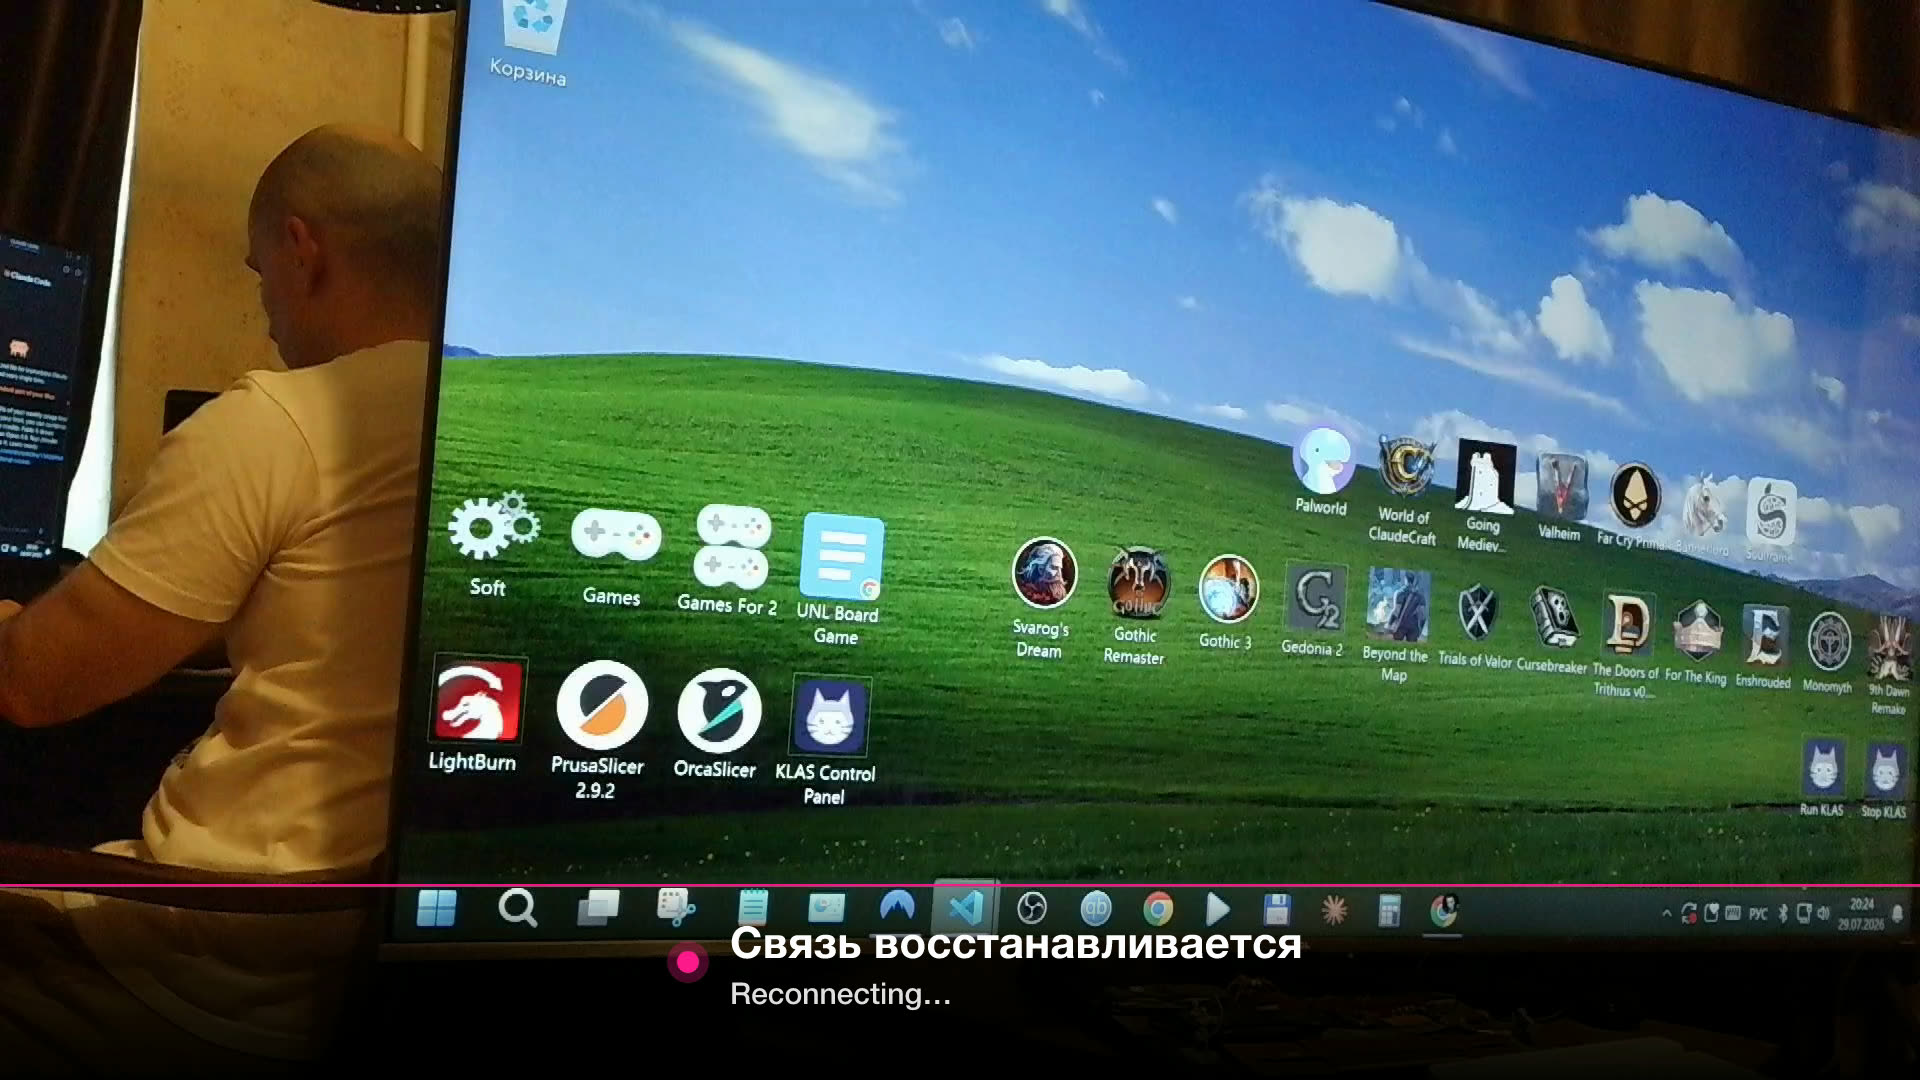
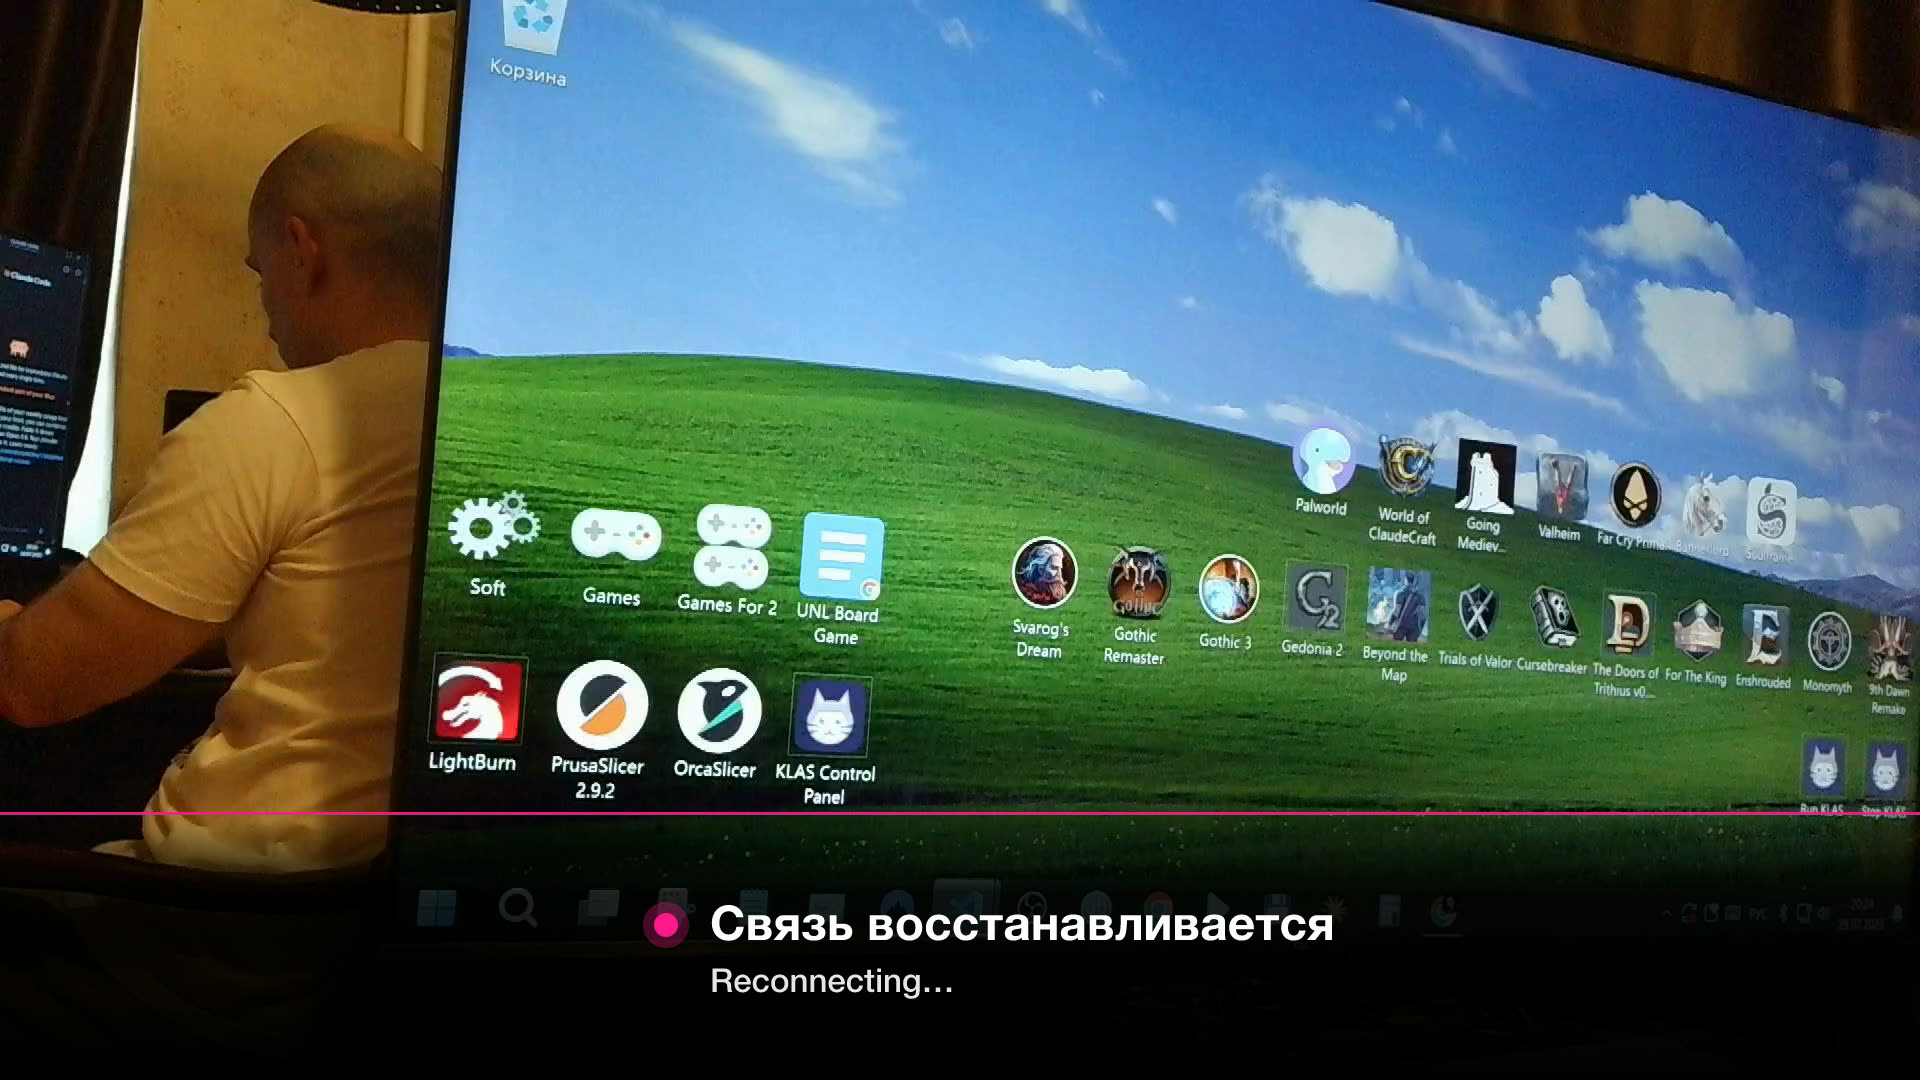
feat(slate): вариант C доработан по правкам Криника — лента 268px, градиент 0.86/0.985; эталон зафиксирован в plans/21 C2 [0.8 (27)]

Changed region(s): [[0.0, 0.7333, 1.0, 0.9472]]

diff --git a/plans/21_stream_resilience_levels_2_4.md b/plans/21_stream_resilience_levels_2_4.md
@@ -145,7 +145,15 @@
   - CMD `simulate-slate` (`MainActivity.kt` — ветка рядом с `:288`, KDoc-список `:197-199`; `StreamingRepository.kt:51`; `tools/ui.mjs:634`; `tools/smoke.mjs` CONTRACT `:97+`). **`slateOverride` — ВХОД политики (`want = override || policy`), а не второй писатель:** политика крутится каждую секунду в тикере и затрёт override за ≤1 с, а на override держится ВСЯ приёмка.
   - Приёмка: слейт вкл на живом сокете → два кадра, вытянутые **С СЕРВЕРА** с интервалом 5 с, совпадают по md5; после `off` — расходятся.
 - [ ] **C2. ПЛАШКА (~35 строк, отдельный коммит).**
-  - `NetworkSlateImage.plaque()`: прозрачный 1920×1080, небольшая плашка внизу-по-центру, калька со `StandbyImage.kt` (кэш, Canvas+Paint, обводка поверх заливки). Текст статичен.
+  - **ЭТАЛОН УТВЕРЖДЁН ВЛАДЕЛЬЦЕМ** (2026-07-29, `interviews/interview_014`): вариант **C — «нижняя
+    лента»**, исходник `assets/graphics/mockups/network_slate/slate_C.svg`. Геометрия оттуда, числами:
+    лента во всю ширину, `y=812, height=268` (25% кадра), вертикальный градиент чёрного
+    `0% → alpha 0`, `30% → 0.86`, `100% → 0.985`; брендовая линия `#FF1A8C` толщиной 3 px по верхней
+    кромке (alpha 0.92); индикатор — точка `#FF1A8C` r=12 с ореолом r=23 (alpha 0.28); текст
+    «Связь восстанавливается» 48 px bold белый, «Reconnecting…» 33 px medium белый alpha 0.90;
+    блок «точка + текст» центрирован по ширине кадра. **Не «похожая» плашка, а эти числа** — иначе
+    предъявляем владельцу не то, что он утвердил.
+  - `NetworkSlateImage.plaque()`: прозрачный 1920×1080, лента внизу, калька со `StandbyImage.kt` (кэш, Canvas+Paint). Текст статичен. Градиент — `LinearGradient` в `Paint.shader`.
   - Заливка текстуры по образцу `setStandbyBitmaps` (`:450`) / `uploadStandby` (`:457`) — эта пара переживает реинит GL.
   - **Рисовать в ПРОХОДЕ 2, сразу после `CompositorVideoSource.kt:940`, в framebuffer 0.** Никакого `buildSlateMatrix` и контр-поворота: поворот холста уже применён к тексовым координатам сцены, нужна только аспект-поправка квада под `encW×encH`. Бонус, ради которого это и выбрано: `beginTransition` кладёт в `transBaseTex` СНИМОК `sceneTex` (`:554-557`) — если плашку рисовать в `sceneFbo`, при смене сцены во время слейта она окажется И в базе уходящей сцены, И живой поверх = **удвоенная альфа на всю длительность перехода**.
   - Фейд — тот же `STANDBY_FADE_MS` (`:44`), альфа считается раз на кадр.
@@ -333,7 +341,7 @@
 | # | Решение Криника | Следствие |
 |---|---|---|
 | В1 | **WYSIWYG** — превью замирает вместе с эфиром | второй проход композита НЕ делаем, работа C дешевеет |
-| В2 | плашка низ-центр, **брендовая, с тёмной тенью** под текстом | ✅ **4 мокапа СДЕЛАНЫ 2026-07-29** — `assets/graphics/mockups/network_slate/` (фон — настоящий кадр с RTMP-сервера, каждый вариант на тёмном И светлом контенте). Выбор Криника — `interviews/interview_014`. Код C не начинается до ответа |
+| В2 | плашка низ-центр, **брендовая, с тёмной тенью** под текстом | ✅ **ЗАКРЫТ 2026-07-29: выбран вариант C — «нижняя лента»** (`interviews/interview_014` В1, дословно: «C - только сделать фон темнее, и размер ленты чуть больше»). Правки внесены: градиент 0.72/0.95 → **0.86/0.985**, высота ленты 196 → **268 px**, текст 44/30 → 48/33. Эталон для кода — `assets/graphics/mockups/network_slate/slate_C.svg`; вид на кадре с сервера — `slate_C_dark.jpg` / `slate_C_light.jpg`. **Работа C разблокирована** |
 | В3 | «нет ли middleware без sudo?» | **есть и лучше:** свой TCP-прокси `tools/net-chaos.mjs` в userspace; `pfctl`/`dnctl` из плана ОТМЕНЕНЫ |
 | В4 | **ни звука, ни вибро**; пульсирующая обводка экрана + пуш только в фоне/на локскрине | работа D переписана целиком, вердикт критика BROKEN снят вместе со звуком |
 | В5 | **250 кбит/с** | подтверждено владельцем, из «решений без владельца» убрано |

diff --git a/STATUS.md b/STATUS.md
@@ -54,7 +54,7 @@ LTE**, где тот недостижим в принципе — отсюда `
 | Что | Зачем |
 |---|---|
 | **`homeworks/09` — эксперимент E4** на его YouTube | принимает ли живая платформа ускоренный поток. **Блокер всего догона** |
-| 🔥 **Выбрать 1 из 4 мокапов** плашки — **МОКАПЫ ГОТОВЫ 2026-07-29** | смотреть `assets/graphics/mockups/network_slate/COMPARE_all.jpg`, отвечать в `interviews/interview_014`. Фон мокапов — настоящий кадр с RTMP-сервера, каждый вариант на тёмном И светлом контенте. **Один ответ буквой разблокирует код работы C** |
+| ~~Выбрать мокап плашки~~ ✅ **ЗАКРЫТО 2026-07-29** | Криник выбрал **вариант C («нижняя лента»)** + правки «фон темнее, лента крупнее» — внесены. Эталон для кода: `assets/graphics/mockups/network_slate/slate_C.svg`. **Работа C разблокирована** |
 | `ideas/44` — состав звуковых паттернов виртуалки | отладка догона числами |
 | Приёмка глазами: bugs 60/61/62/63/64/33, UI сцен, живучесть уходящей сцены | накопилось с прошлых сессий |
 
